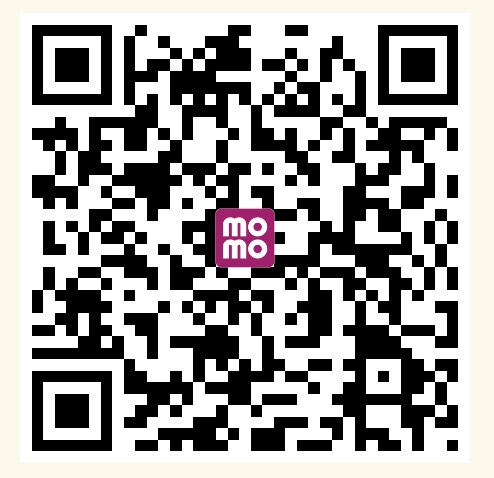
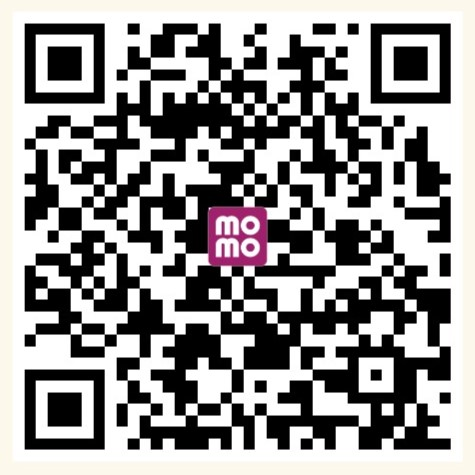
up

diff --git a/Book/index.html b/Book/index.html
@@ -10,11 +10,15 @@
     <div class="card">
 
       <div class="col-md-3">
-        <a href="https://lixi.momo.vn/lixi/7vL9qMPjP5dmLK0">
+        <a href="https://lixi.momo.vn/lixi/mGLE3MWOvG7jJqP">
   
         <div class="wsk-cp-product">
+          
           <div class="wsk-cp-img"><img src="./z5148747228697_5274cffe490fa2740400c6024b990472.jpg" alt="Product" class="img-responsive" /></div>
           <div class="wsk-cp-text">
+            <div class="category">
+              <span>nhận quà</span>
+            </div>
             
             <div class="title-product">
               <h3>Quét qr để nhận lì hoặc ấn vào đây</h3>
@@ -36,7 +40,9 @@
         <div class="wsk-cp-product">
           <div class="wsk-cp-img"><img src="./z5148389072136_726cb9226b694266e6cb07d1487f9c8b.jpg" alt="Product" class="img-responsive" /></div>
           <div class="wsk-cp-text">
-            
+            <div class="category">
+              <span>lì xì</span>
+            </div>
             <div class="title-product">
               <h3>Quét qr để nhận lì hoặc ấn vào đây</h3>
             </div>

diff --git a/Book/style.css b/Book/style.css
@@ -3,6 +3,20 @@ body{
   font-family: 'Muli', sans-serif;
   background:#ddd;
 }
+.button{
+  display: inline-block;
+  color:#ffffff;
+  text-align:center;
+  font-size: 18px;
+  transition: all 0.2s ease-in-out;
+  position: absolute;
+  top: 50%;
+  z-index: 1;
+  background-color: #212121;
+  padding: 12px 30px;
+  border-radius: 15px;
+  left: 50%;
+}
 .shell{
   padding:80px 0;
 }
